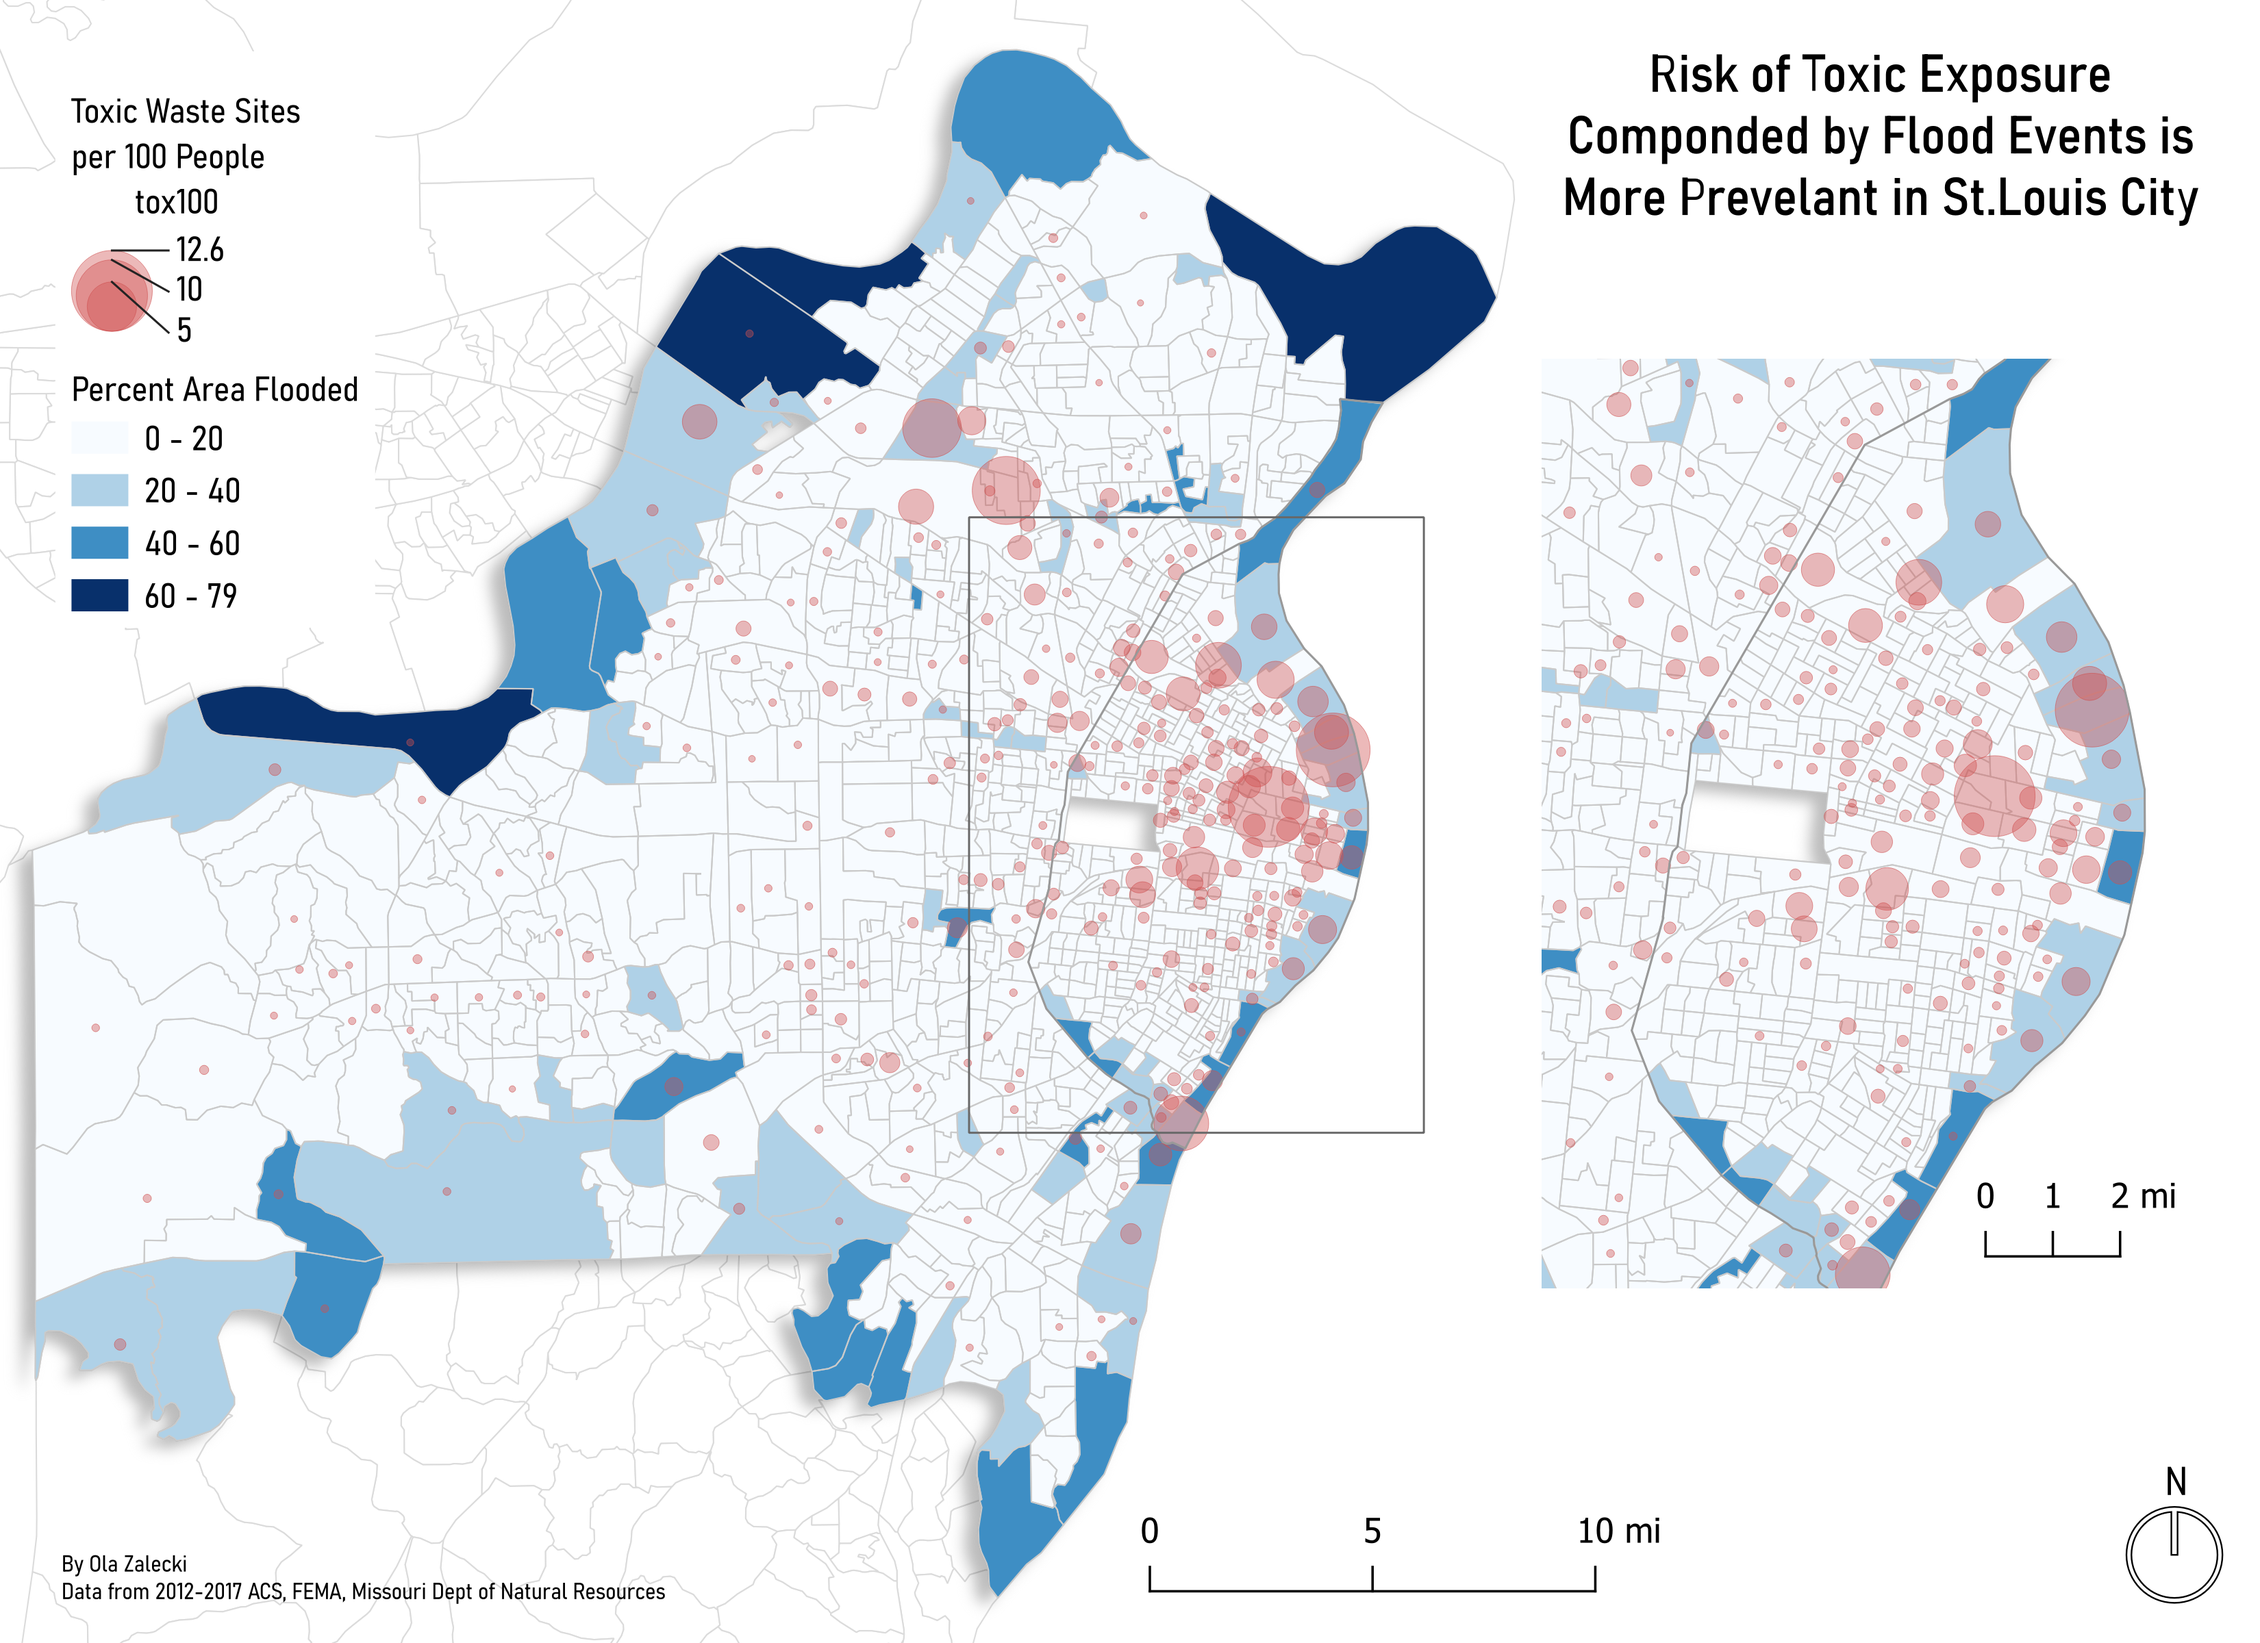
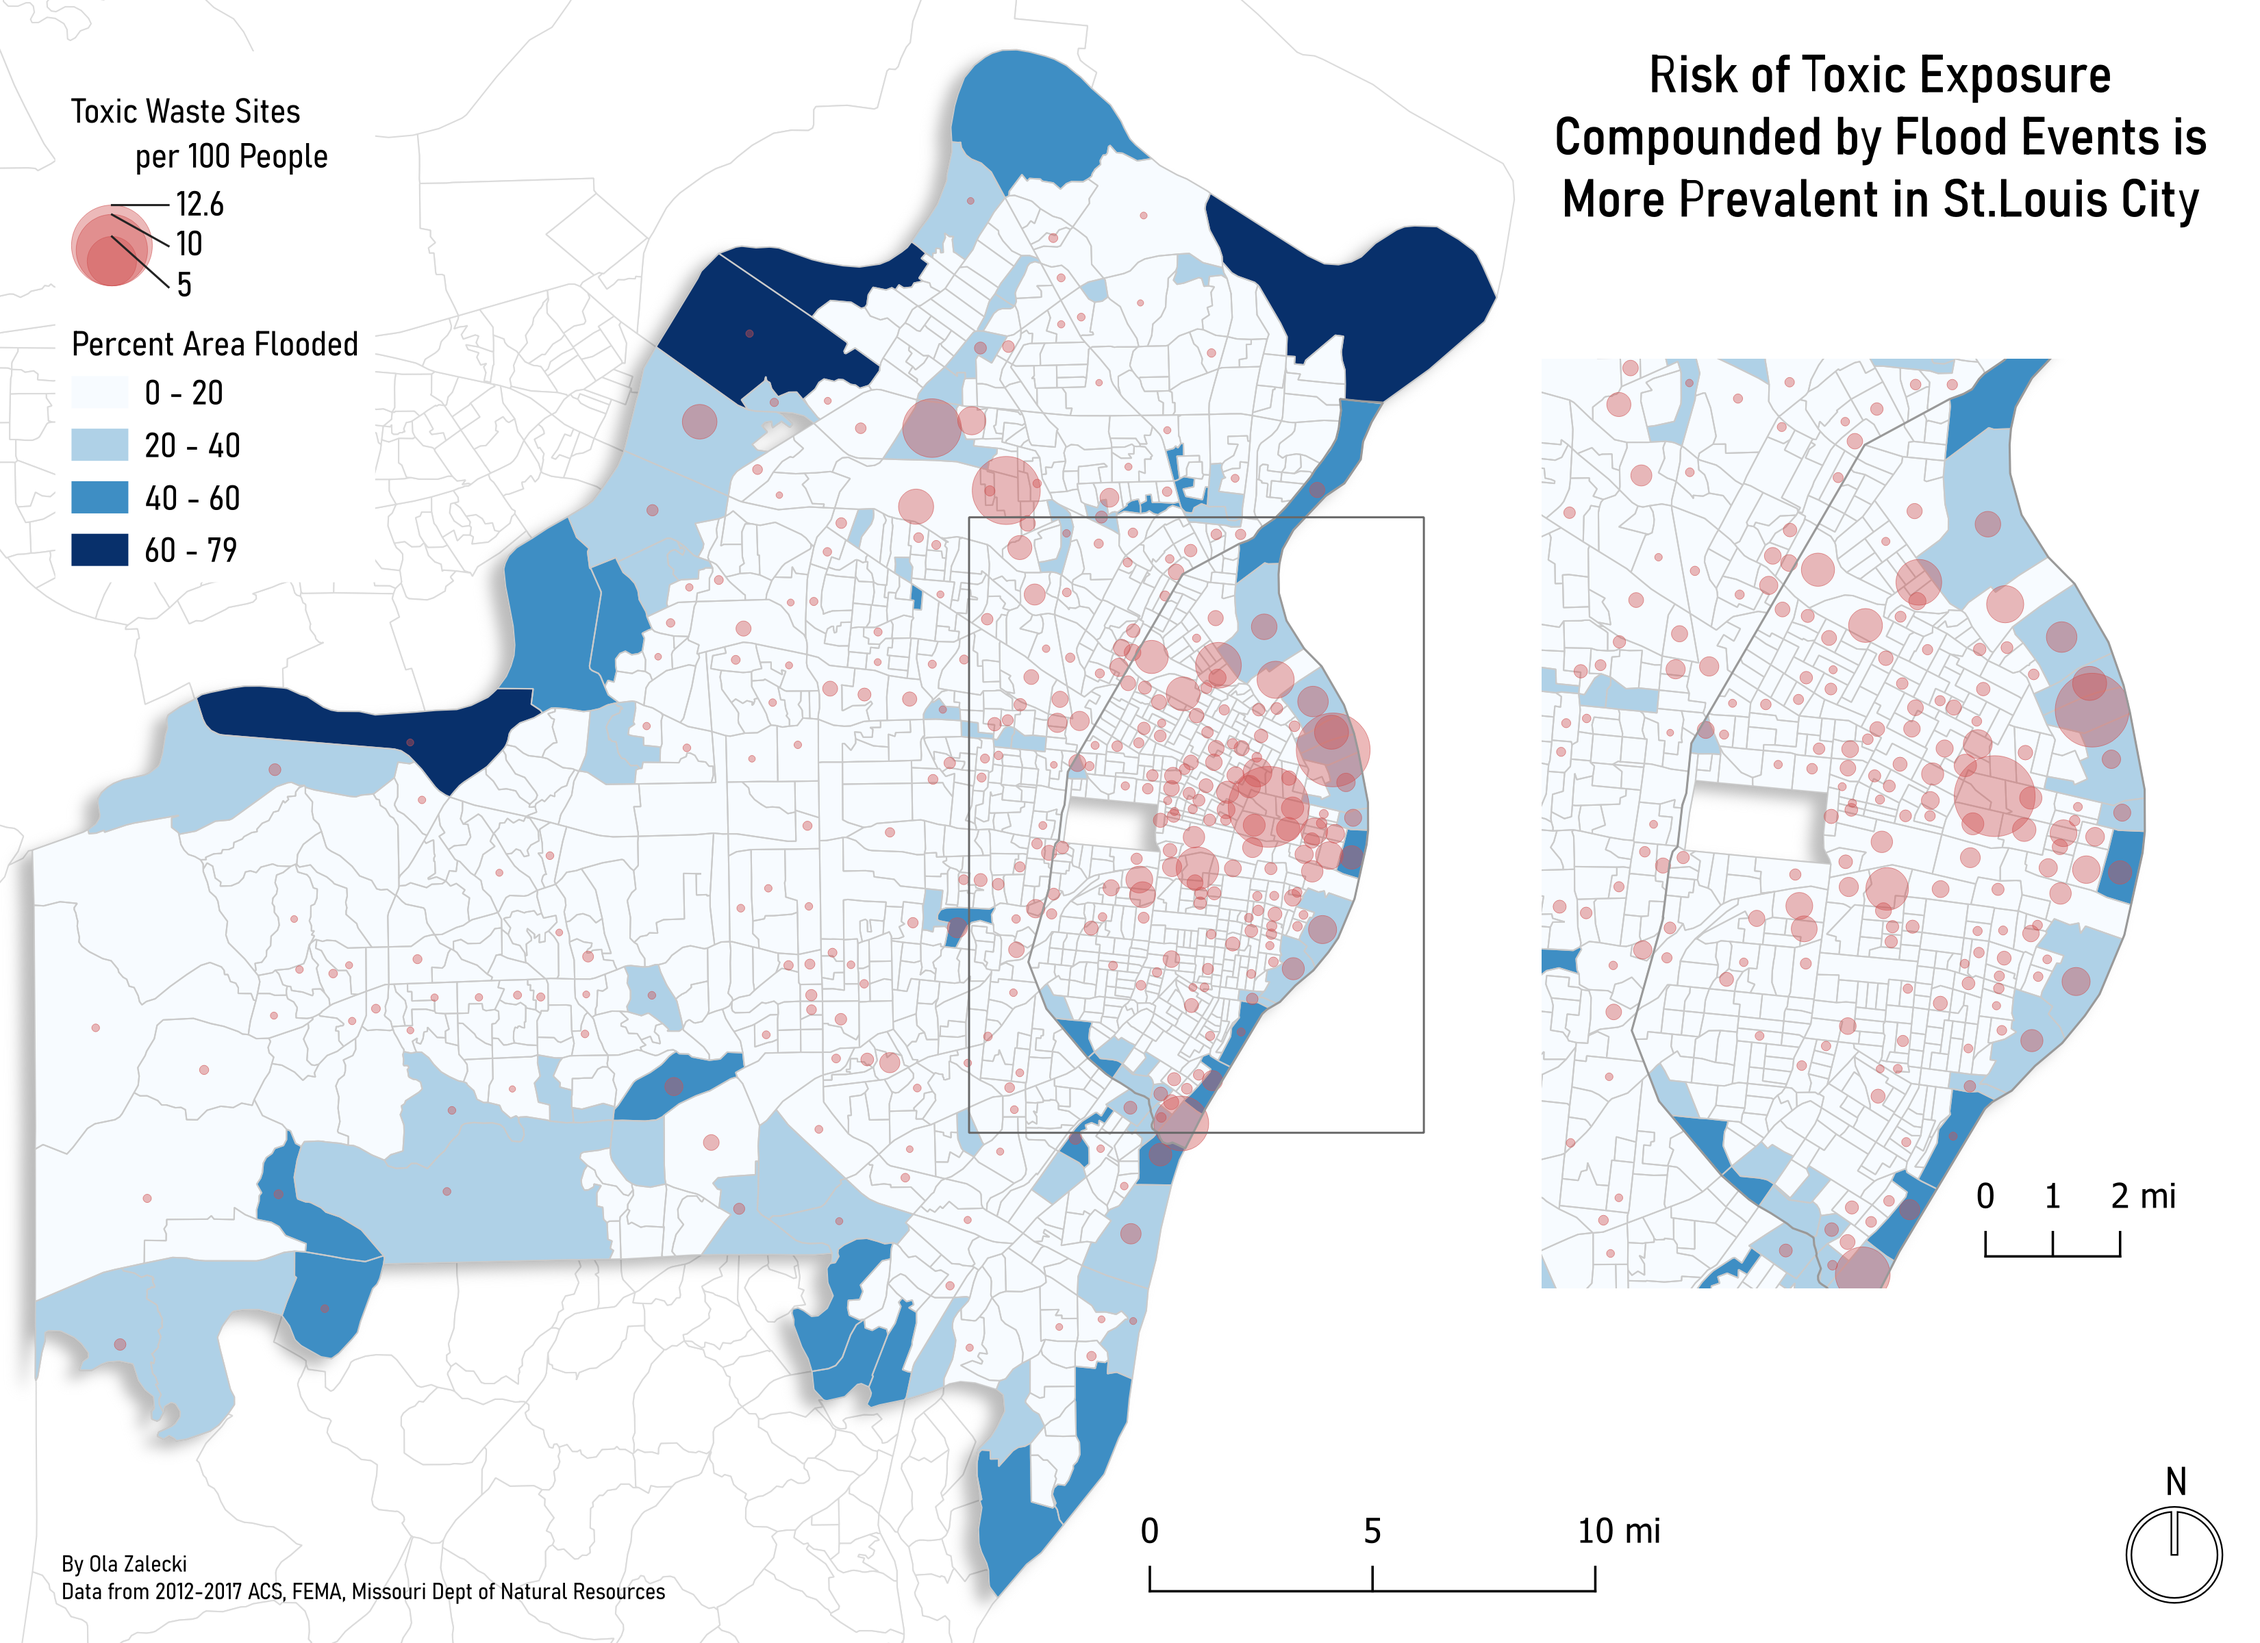
edit humangeo and replace images

Changed region(s): [[0.0312, 0.0625, 0.1561, 0.375], [0.6867, 0.0625, 0.9676, 0.125]]

diff --git a/_projects/humangeography.md b/_projects/humangeography.md
@@ -7,14 +7,15 @@ category: gis
 images:
     slider: true
 ---
-
-<swiper-container keyboard="true" navigation="true" pagination="true" pagination-clickable="true" pagination-dynamic-bullets="true" rewind="true">
+## Flooding and Toxic Waste Exposure in St.Louis, MO
+<swiper-container style="width: 100%; max-width: 600px; margin-inline: auto;" keyboard="true" navigation="true" pagination="true" pagination-clickable="true" pagination-dynamic-bullets="true" rewind="true">
   <swiper-slide>{% include figure.liquid loading="eager" path="assets/img/gis120/sites_flooding.png" class="img-fluid rounded z-depth-1" %}</swiper-slide>
   <swiper-slide>{% include figure.liquid loading="eager" path="assets/img/gis120/segregated.png" class="img-fluid rounded z-depth-1" %}</swiper-slide>
   <swiper-slide>{% include figure.liquid loading="eager" path="assets/img/gis120/compound_risk.png" class="img-fluid rounded z-depth-1" %}</swiper-slide>
 </swiper-container>
 
-<swiper-container keyboard="true" navigation="true" pagination="true" pagination-clickable="true" pagination-dynamic-bullets="true" rewind="true">
+## Planning for Central Falls' Parks
+<swiper-container style="width: 100%; max-width: 600px; margin-inline: auto;" keyboard="true" navigation="true" pagination="true" pagination-clickable="true" pagination-dynamic-bullets="true" rewind="true">
   <swiper-slide>{% include figure.liquid loading="eager" path="assets/img/gis120/bedrooms_quarter.png" class="img-fluid rounded z-depth-1" %}</swiper-slide>
   <swiper-slide>{% include figure.liquid loading="eager" path="assets/img/gis120/shortest_distance.png" class="img-fluid rounded z-depth-1" %}</swiper-slide>
   <swiper-slide>{% include figure.liquid loading="eager" path="assets/img/gis120/network_distance.png" class="img-fluid rounded z-depth-1" %}</swiper-slide>
